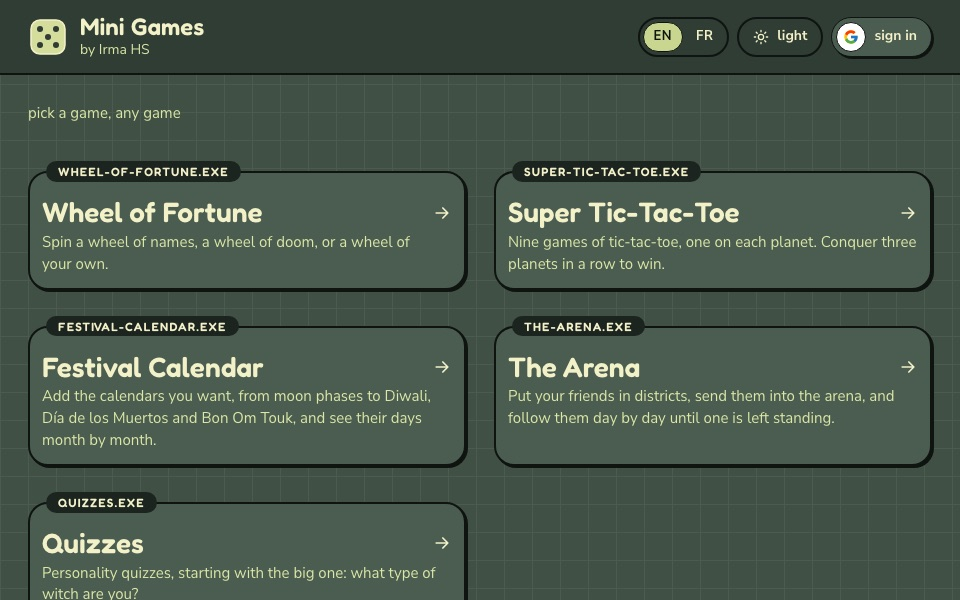
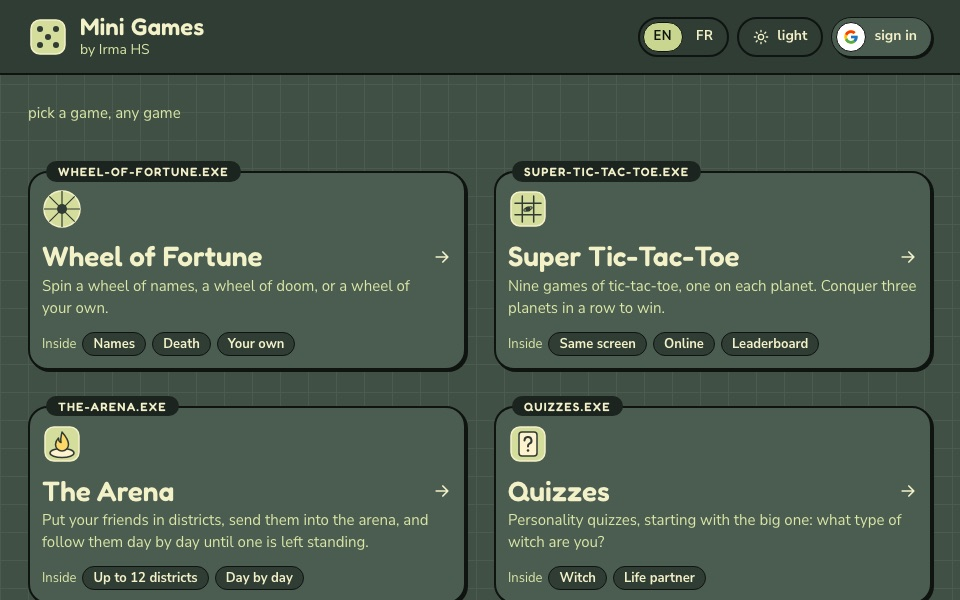
chore: a fresh Mini Games screenshot, with its new hub

diff --git a/CHANGELOG.md b/CHANGELOG.md
@@ -4,6 +4,8 @@ Every change to irmahs.dev, newest first, one entry per pull request. The releas
 
 ## 16 November 2026
 
+- **A fresh Mini Games screenshot:** the Mini Games tile in `launcher.exe` shows its new hub, with each game's icon and what's inside it, and no Festival Calendar card now that it lives beside the apps here.
+
 - **The festival calendar beside the apps, Realms and Tools in the launcher:** the slot beside the apps holds the Festival Calendar, moved over from Mini Games (`calendar.ics`: the month's moons and the festivals of the calendars you pick, a day's list, and "add to your calendar", with `/api/festival-calendar/:id/:file` for iPhones). A switch at its top swaps it for `now_playing.mp3`, and both choices are kept in the browser. `launcher.exe` opens on Realms and Tools, the Album Cover Maker leaves (it lives in Tools now), Mini Games has a fresh screenshot, and the window holds up to eight. The tab reads "Home · Irma Houver Sing".
 
 ## 12 November 2026
